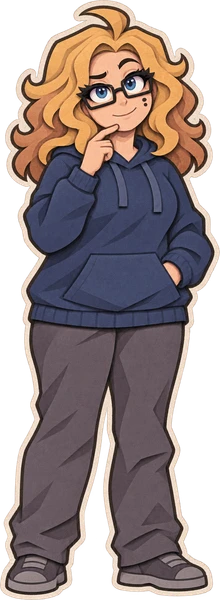
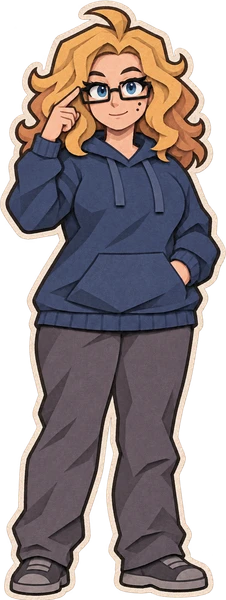
Redraw the thoughtful Founding sprite
Use sharper paper-cutout linework and a different thinking gesture that matches the reference sprite set. Register the new art to the same standing mark.

diff --git a/packages/villages/src/client/features/founding/villages-forging-styles.ts b/packages/villages/src/client/features/founding/villages-forging-styles.ts
@@ -634,7 +634,7 @@ export const VILLAGES_FORGING_STYLES = `
 .villages-setting-stage [src$="mari-founding-playful.webp"] { --shoe-center:49.6%; }
 .villages-setting-stage [src$="mari-founding-presenting.webp"] { --shoe-center:63%; }
 .villages-setting-stage [src$="mari-founding-wave.webp"] { --shoe-center:52.7%; }
-.villages-setting-stage [src$="mari-founding-thoughtful.webp"] { --shoe-center:48.4%; }
+.villages-setting-stage [src$="mari-founding-thoughtful.webp"] { --shoe-center:48%; }
 .villages-setting-stage [src$="mari-founding-happy-side.webp"] { --shoe-center:35%; }
 .villages-setting-stage [src$="mari-founding-proud.webp"] { --shoe-center:47.9%; }
 .villages-setting-dialogue,.villages-forging-v2 .villages-founding-setting.villages-forging-card {
